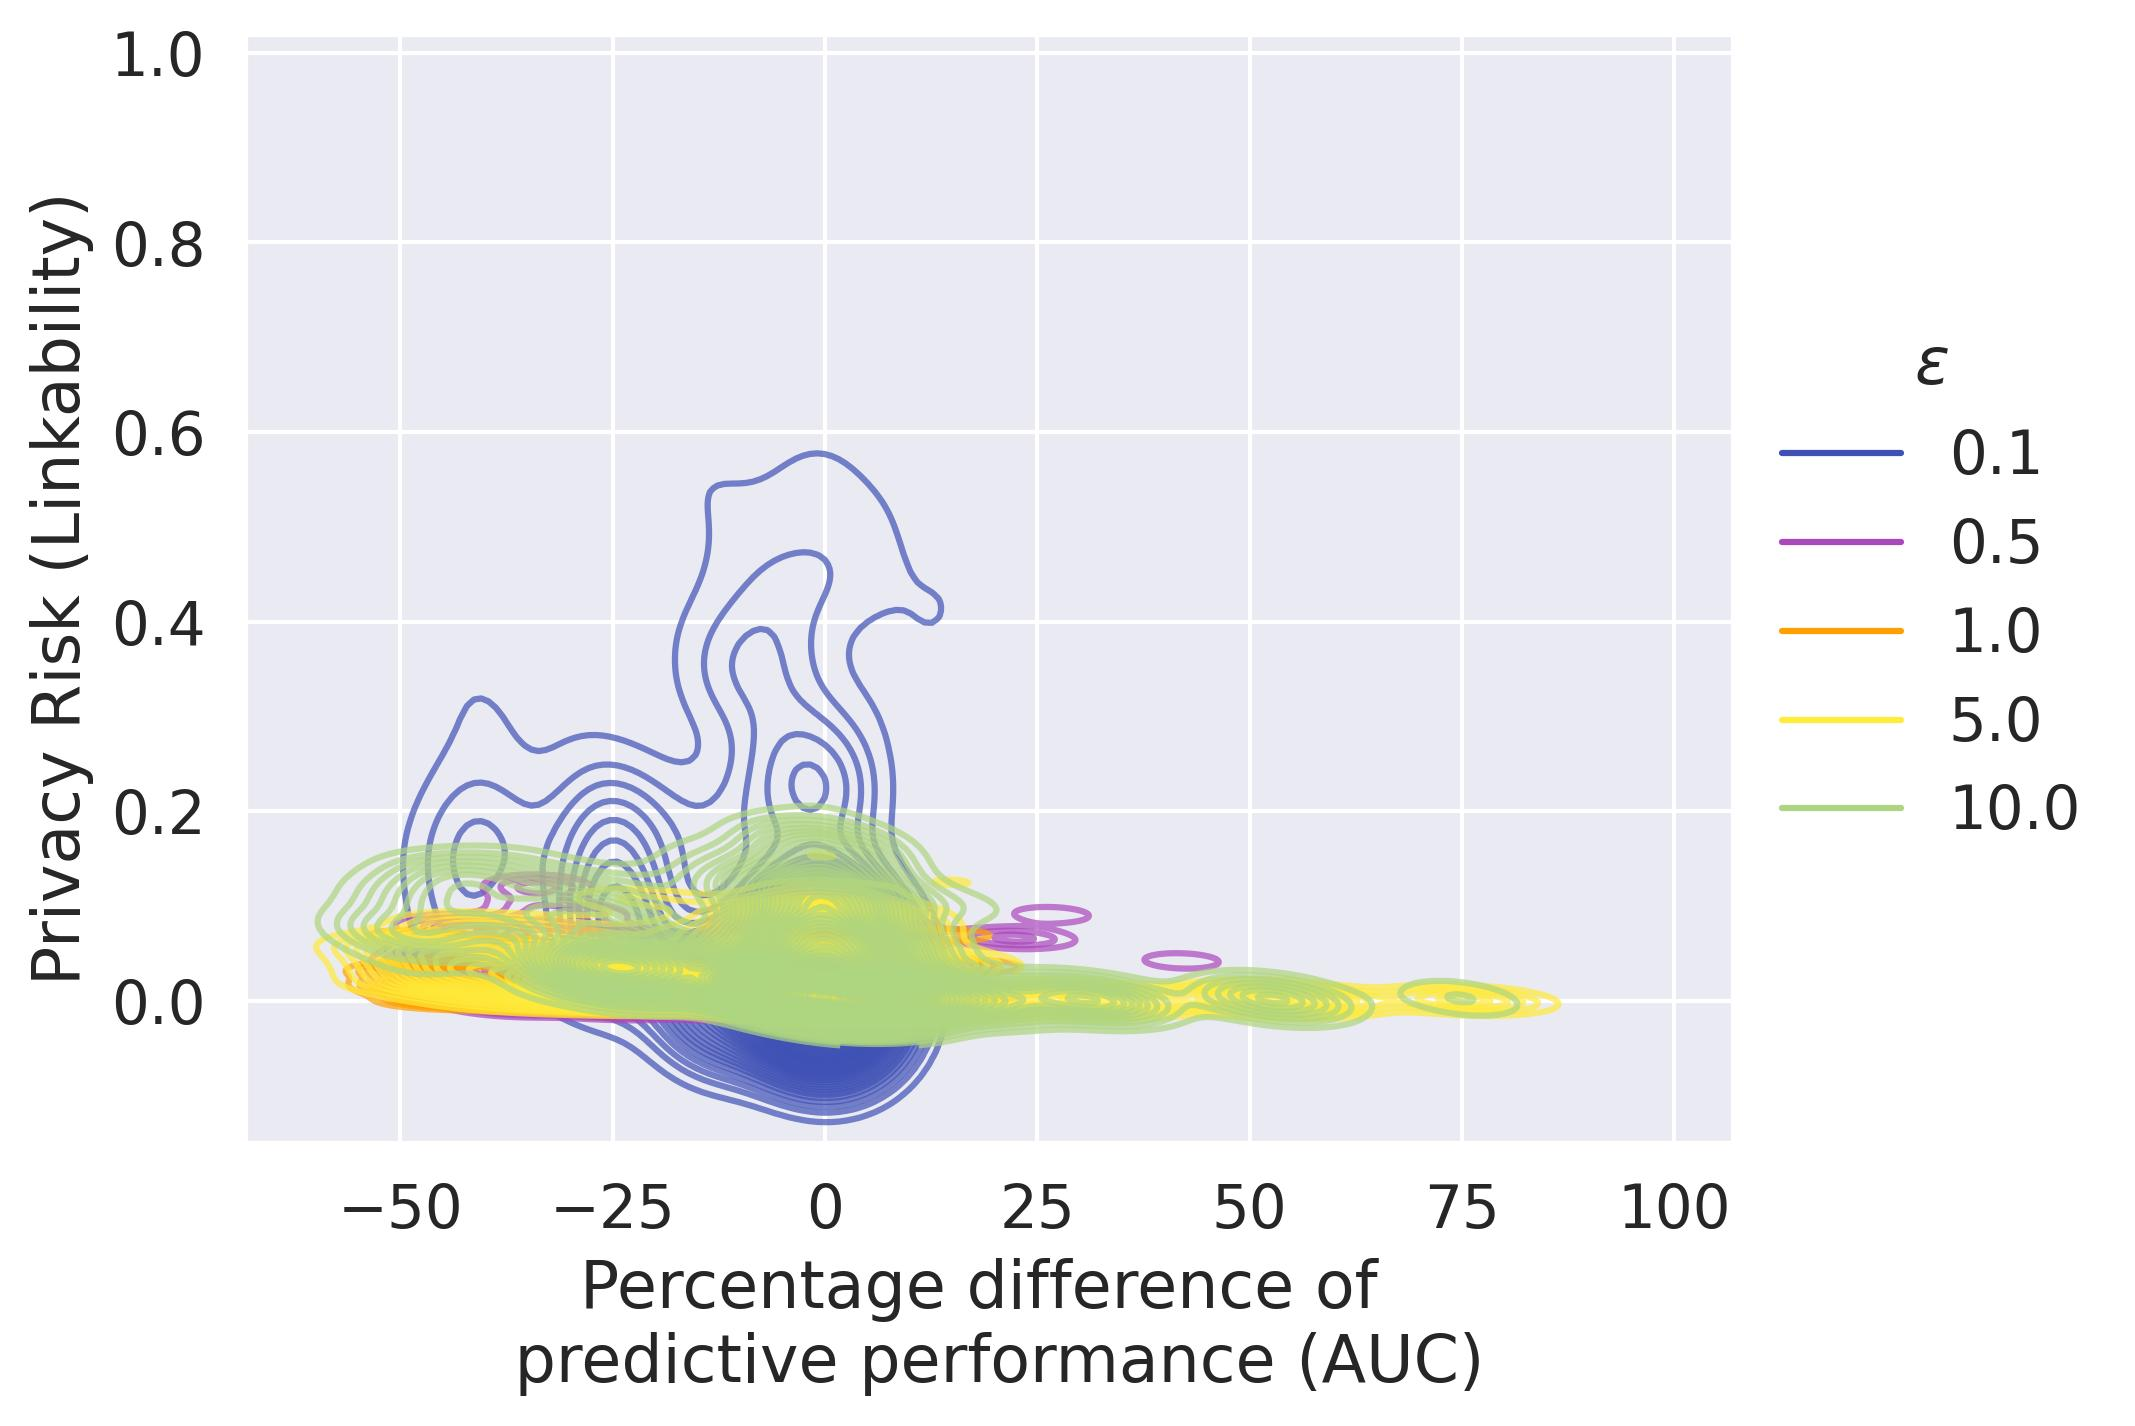
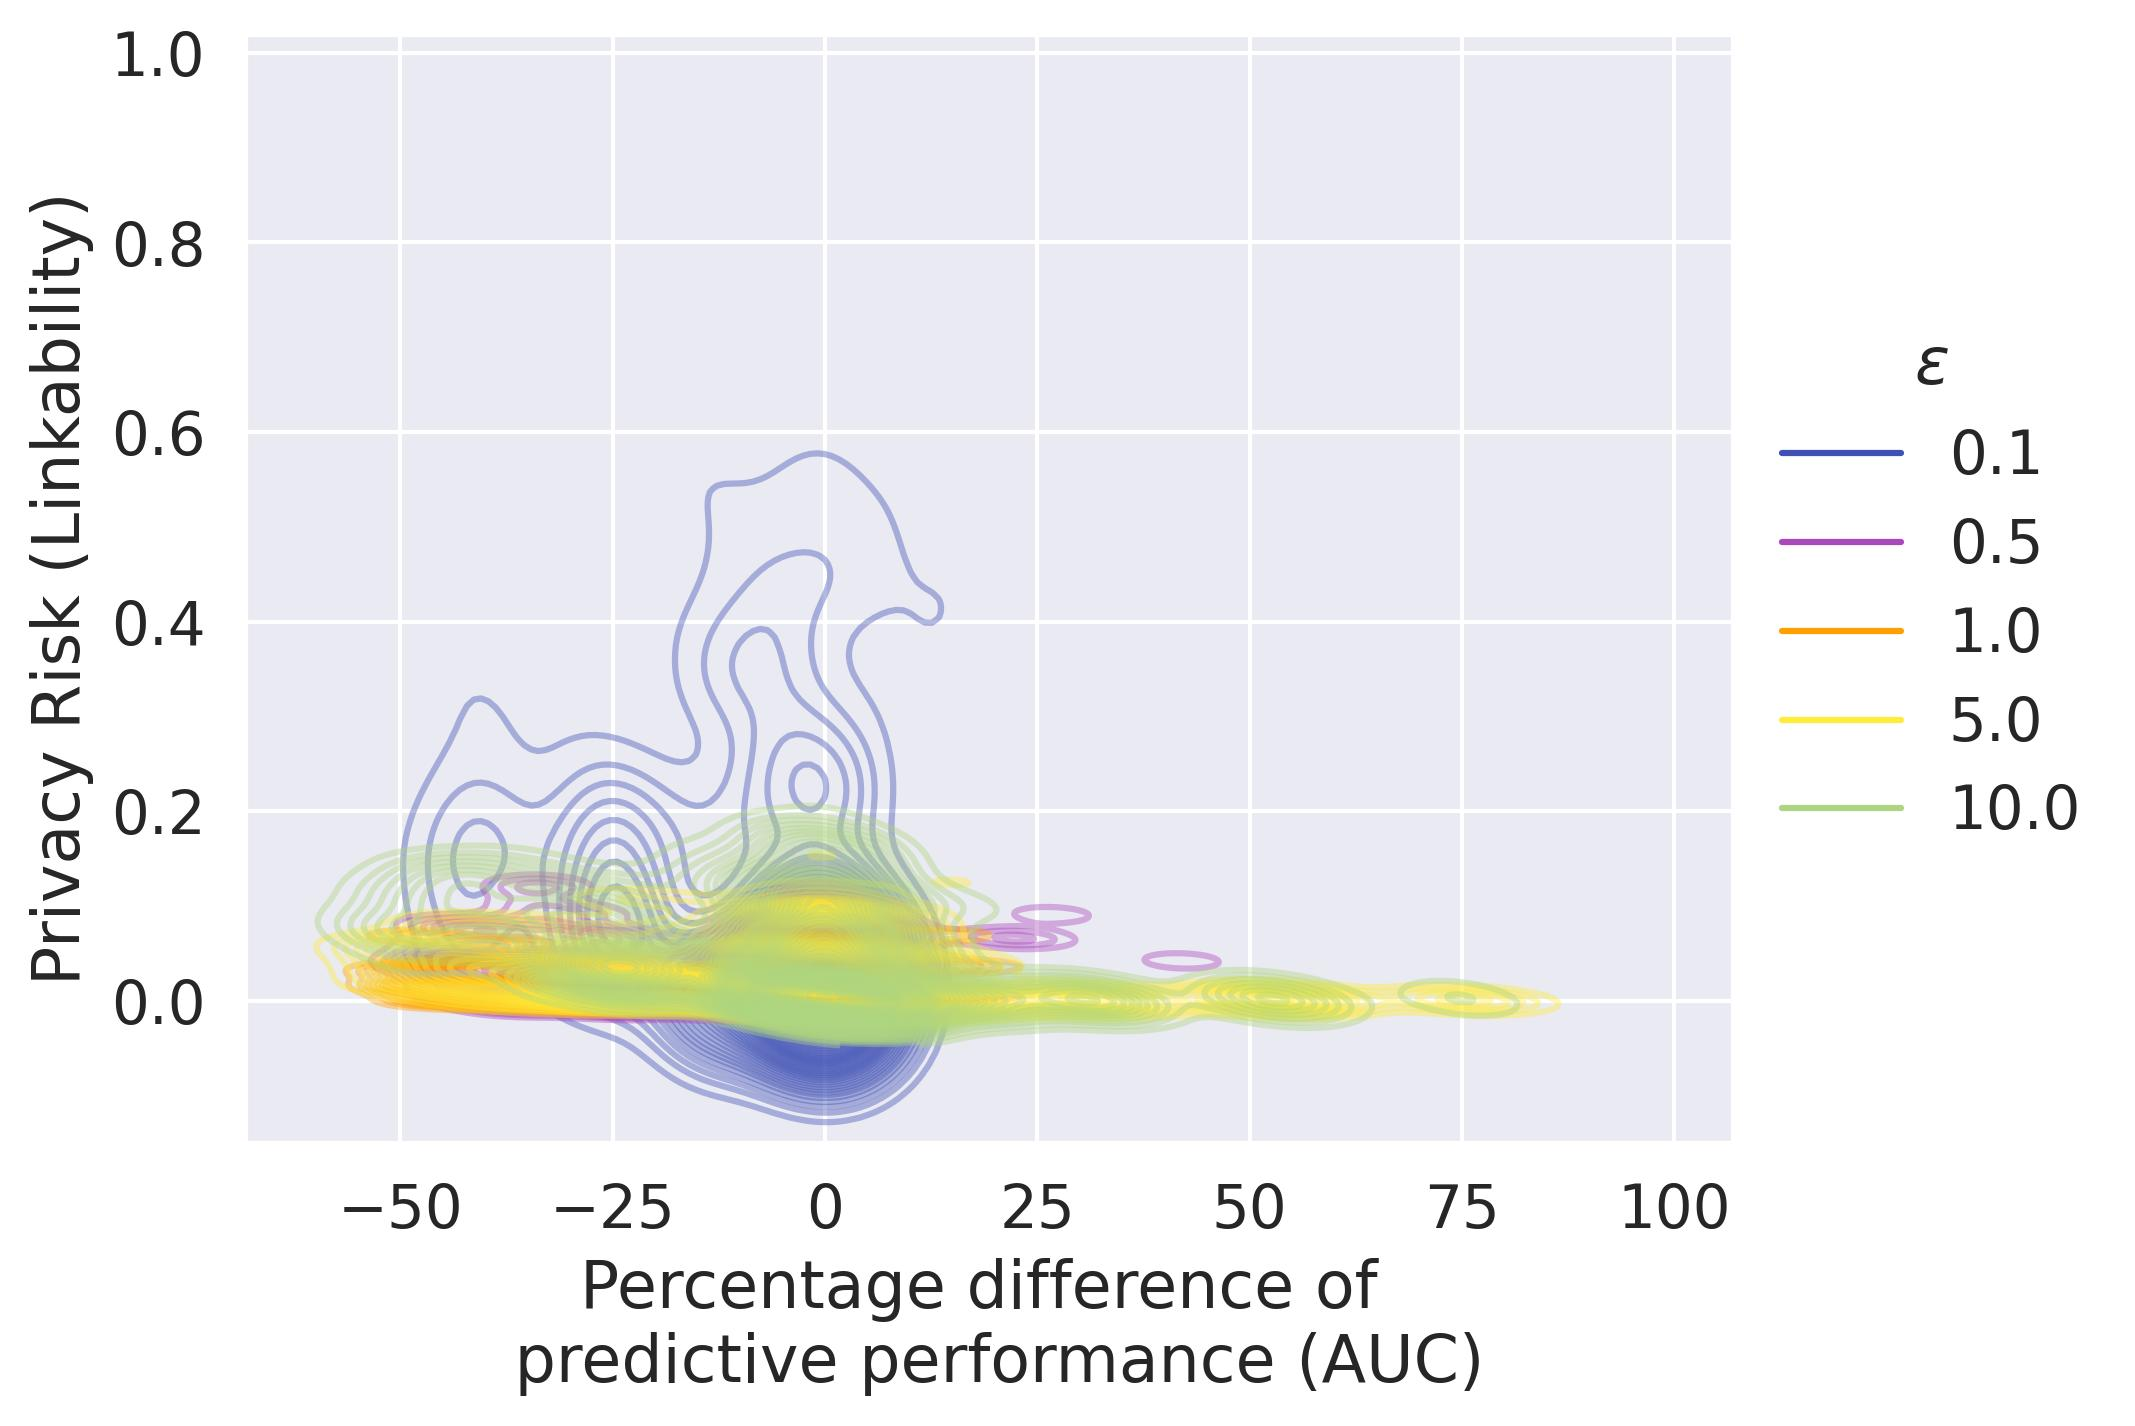
increase the alpha

Changed region(s): [[0.1237, 0.3394, 0.7419, 0.8022], [0.34, 0.3086, 0.4019, 0.3394], [0.3091, 0.3394, 0.34, 0.3703]]

diff --git a/code/tradeoff.py b/code/tradeoff.py
@@ -176,7 +176,7 @@ axes[0,0].set_ylim(-70,100)
 axes[1,0].set_ylim(-70,100)
 axes[0,1].set_ylim(-0.02,1.02)
 axes[1,1].set_ylim(-0.02,1.02)
-plt.savefig(f'{os.path.dirname(os.getcwd())}/plots/performance_risk_together_.jpg', dpi=300, bbox_inches='tight')
+# plt.savefig(f'{os.path.dirname(os.getcwd())}/plots/performance_risk_together_.jpg', dpi=300, bbox_inches='tight')
 
 #############################
 #       Each technique      #
@@ -288,7 +288,7 @@ color_epsilons = ['#3F51B5', '#AB47BC', '#FFA000', '#FFEB3B', '#AED581'] # '#F06
 axs = sns.kdeplot(x=privsmote2['roc_auc_perdif'], y=privsmote2['value'],
                   fill=False, thresh=0, levels=100, hue=privsmote2[r'$\epsilon$'],
                    #hue_order=order_eps,
-                   palette=color_epsilons, alpha=0.7)
+                   palette=color_epsilons, alpha=0.4)
 sns.set(font_scale=1.3)
 axs.set(ylim=(-0.15, 1.02))
 # axs.set(xlim=(-60, 85))
